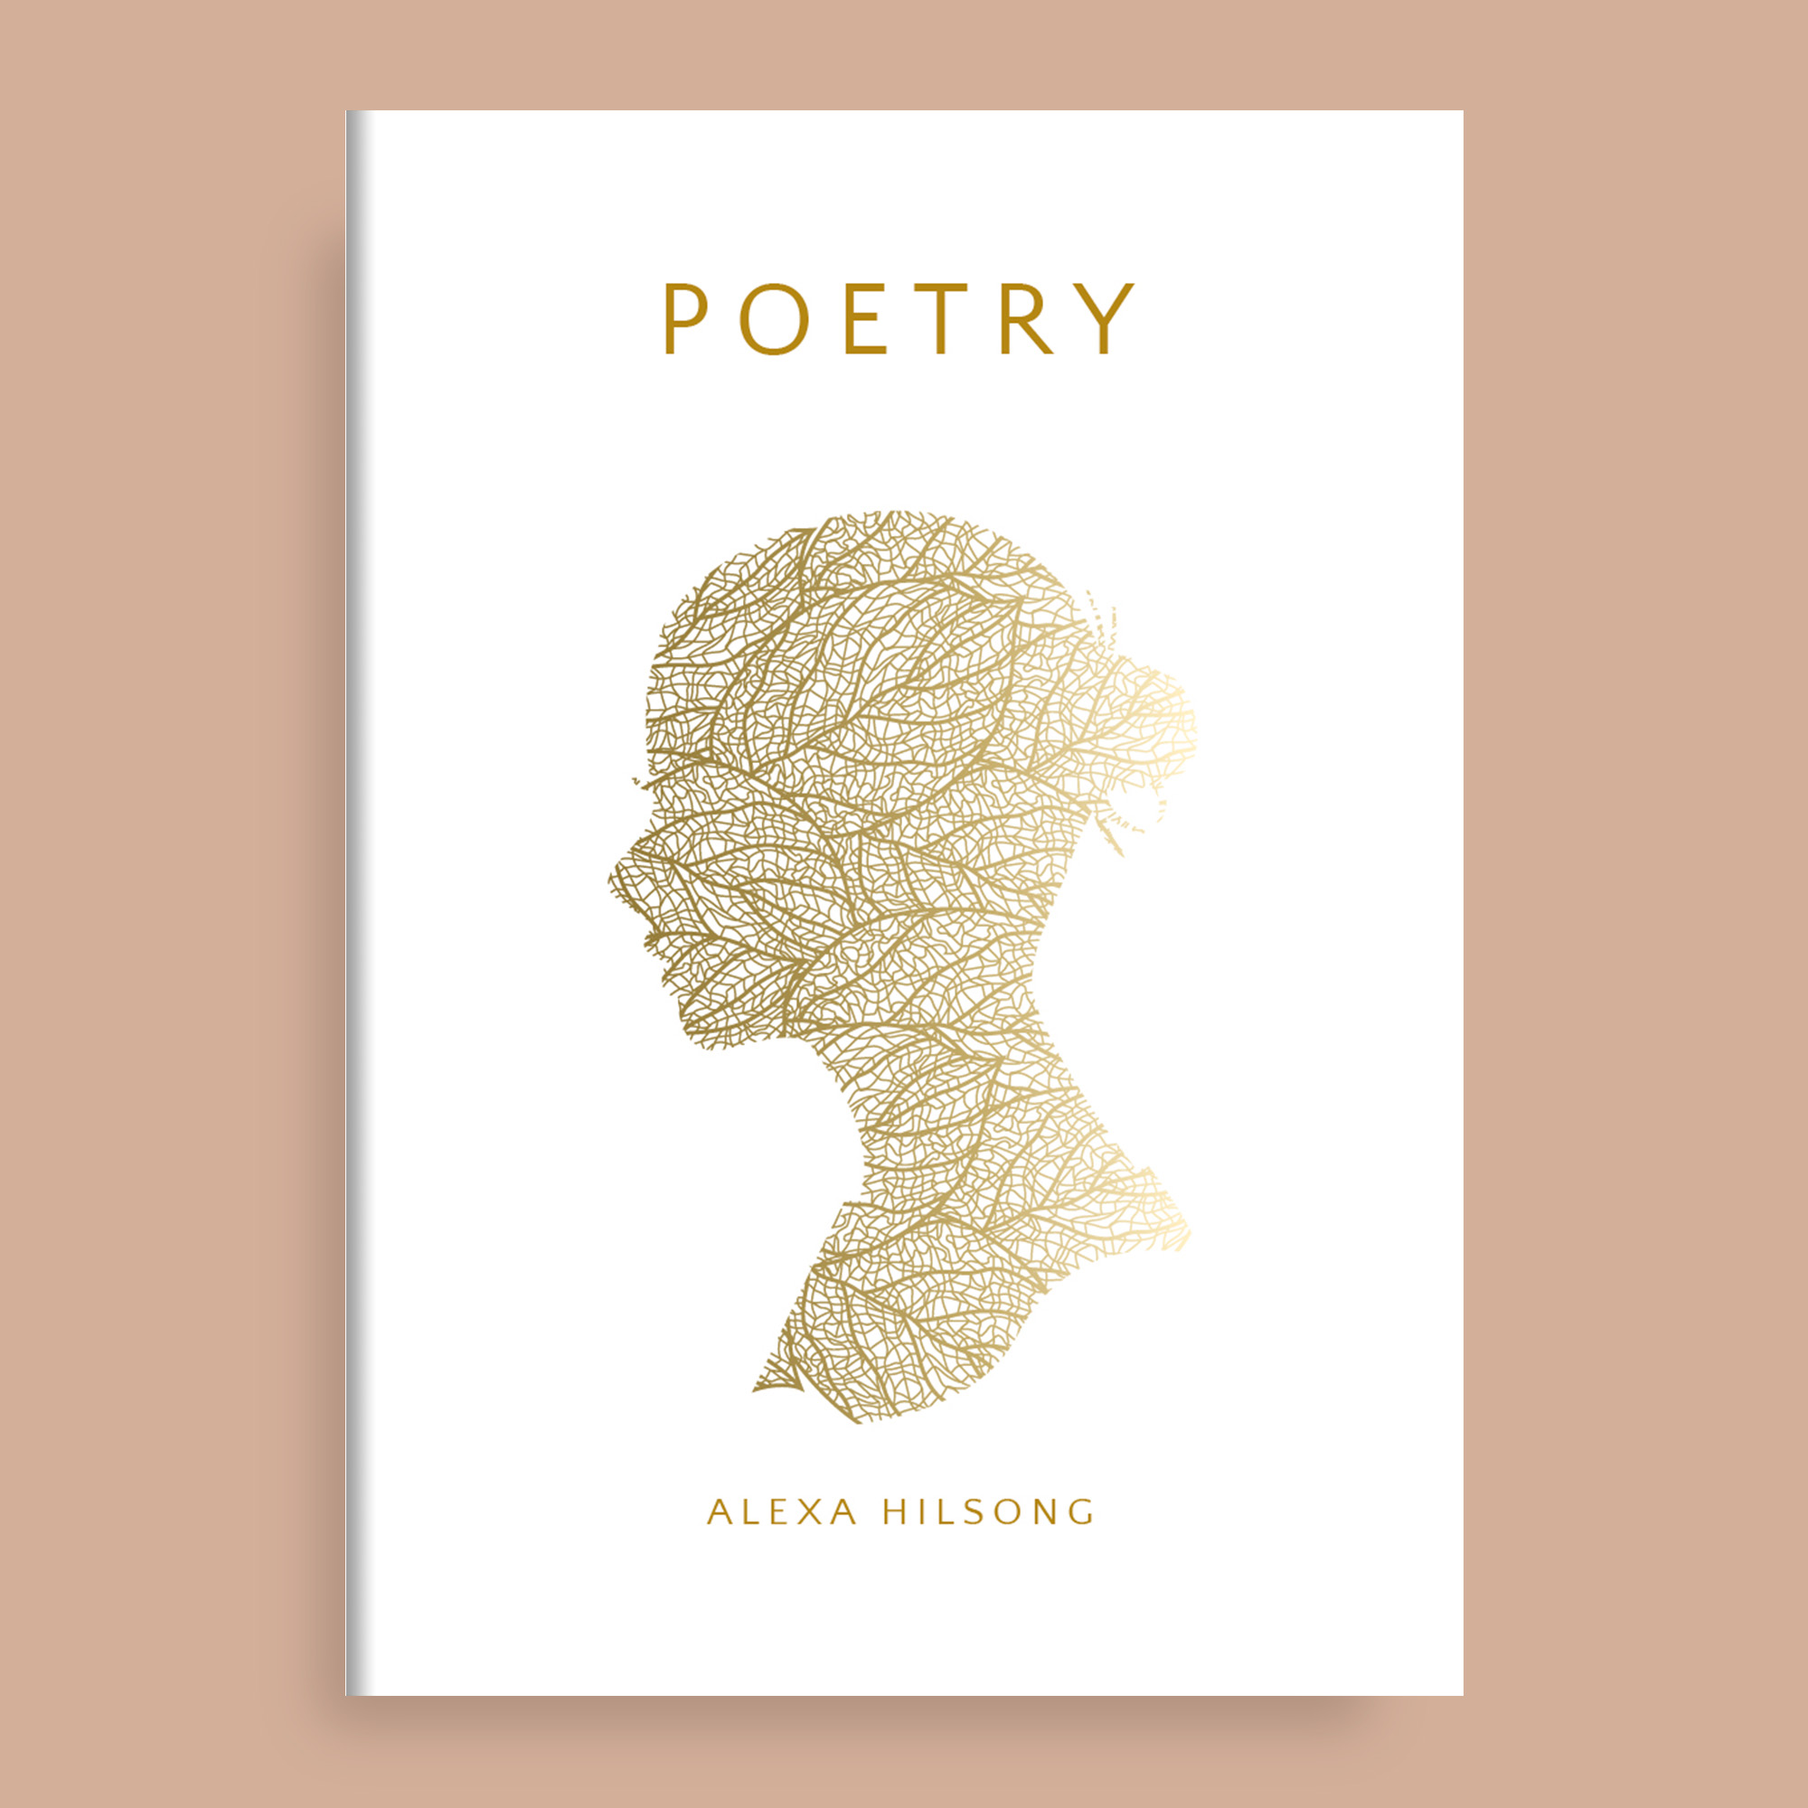
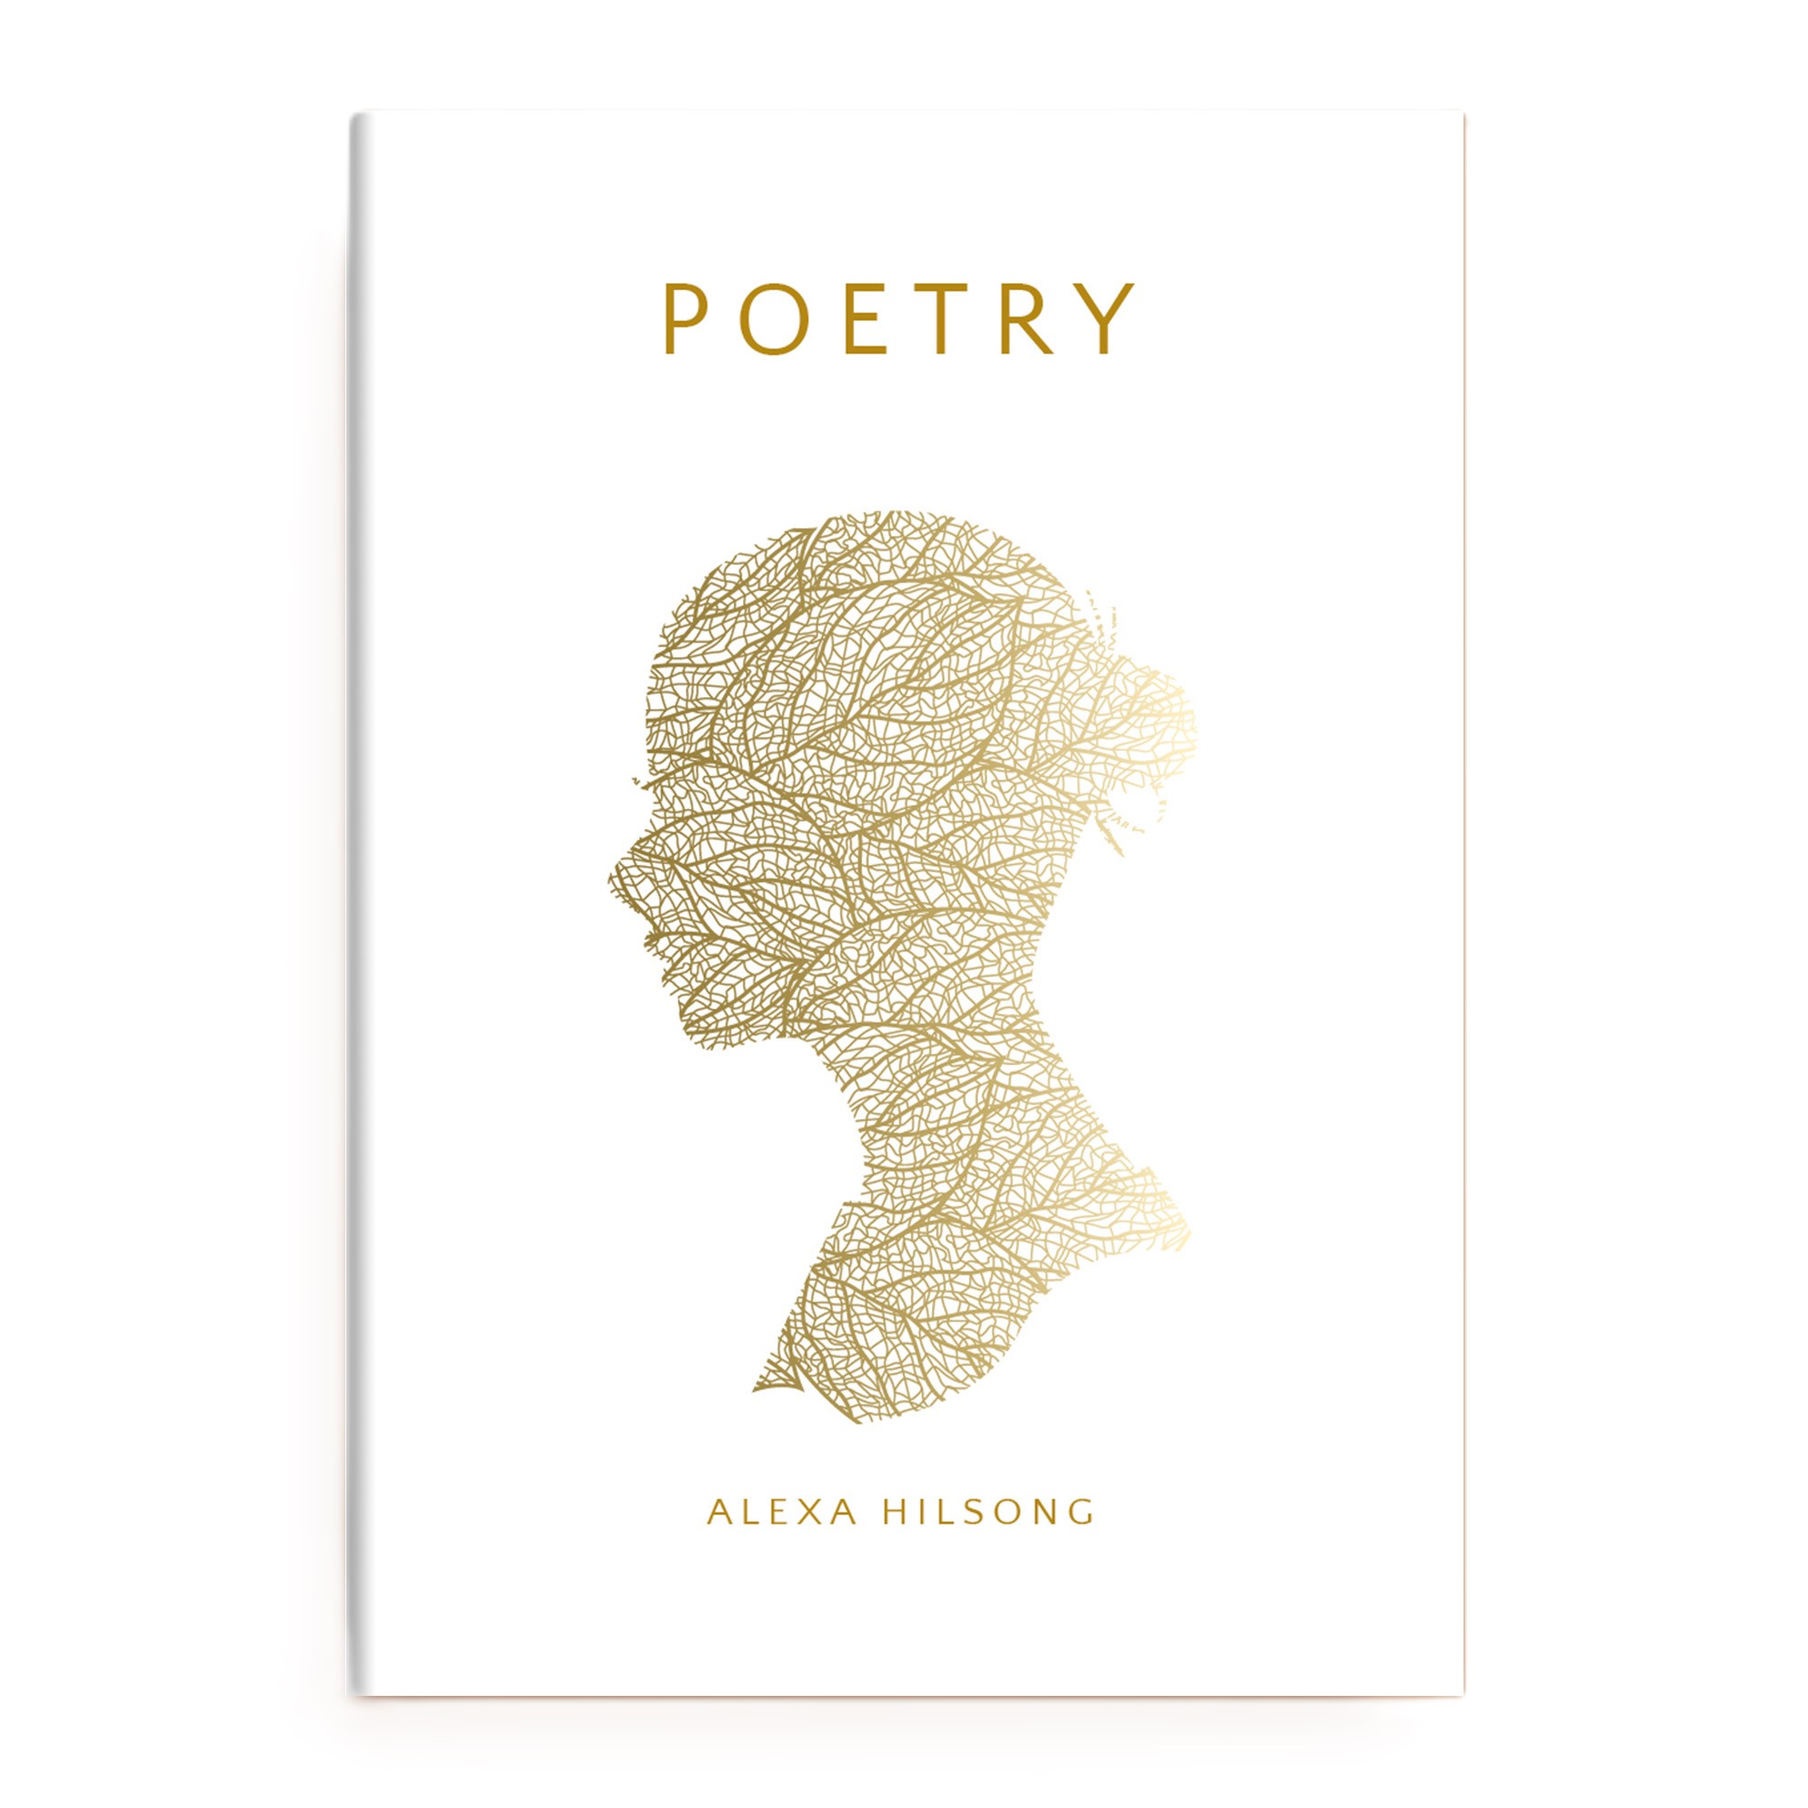
quick access card modification and hero section style changes

diff --git a/frontend/src/components/adminManage/AdminLogin.jsx b/frontend/src/components/adminManage/AdminLogin.jsx
@@ -1,0 +1,187 @@
+import { useState, useRef, useEffect } from "react";
+import axios from "axios";
+import bgimg from "../../images/adminBg.jpg";
+import stimg from "../../images/adminFormLeft.png";
+
+function AdminLogin() {
+  const containerRef = useRef(null);
+  const leftRef = useRef(null);
+  const rightRef = useRef(null);
+
+  useEffect(() => {
+    const container = containerRef.current;
+    const left = leftRef.current;
+    const right = rightRef.current;
+
+    container.style.opacity = "0";
+    left.style.opacity = "0";
+    left.style.transform = "translateX(-50px)";
+    right.style.opacity = "0";
+    right.style.transform = "translateX(50px)";
+
+    requestAnimationFrame(() => {
+      container.style.transition = "opacity 0.5s ease";
+      container.style.opacity = "1";
+
+      setTimeout(() => {
+        left.style.transition = "opacity 0.5s ease, transform 0.5s ease";
+        left.style.opacity = "1";
+        left.style.transform = "translateX(0)";
+        right.style.transition = "opacity 0.5s ease, transform 0.5s ease";
+        right.style.opacity = "1";
+        right.style.transform = "translateX(0)";
+      }, 600);
+    });
+  }, []);
+
+  const [formData, setFormData] = useState({
+    email: "",
+    password: "",
+    expectedRole: "admin",
+  });
+
+  const [loading, setLoading] = useState(false);
+  const [error, setError] = useState(null);
+  const [success, setSuccess] = useState(null);
+
+  //run when any input field changes
+  const handleChange = (e) => {
+    setFormData({
+      ...formData,
+      [e.target.name]: e.target.value, //update the specific field that changed
+    });
+
+    //validation
+    if (!formData.email.trim()) {
+      setError("Email is required");
+      setLoading(false);
+      return;
+    }
+
+    if (!formData.password.trim()) {
+      setError("Password is required");
+      setLoading(false);
+      return;
+    }
+
+    //email validation
+    const emailRegex = /^[^\s@]+@[^\s@]+\.[^\s@]+$/;
+    if (!emailRegex.test(formData.email)) {
+      setError("Please enter a valid email address");
+      setLoading(false);
+      return;
+    }
+  };
+
+  //run when form submits
+  const handleSubmit = async (e) => {
+    e.preventDefault(); //prevent page refresh
+    setLoading(true);
+    setError(null);
+
+    try {
+      const res = await axios.post("/api/head-users/login", formData); //send form data to backend
+
+      setSuccess("Login successful!"); //show success message
+
+      //clear form data
+      setFormData({
+        email: "",
+        password: "",
+      });
+    } catch (err) {
+      setError(err.response?.data?.error || "Login failed, please try again.");
+    } finally {
+      setLoading(false); //loading
+    }
+  };
+
+  return (
+    <div
+      className="w-full h-screen flex items-center justify-center bg-cover px-20"
+      style={{ backgroundImage: `url(${bgimg})` }}
+    >
+      <div
+        ref={containerRef}
+        className="container flex w-2/3  h-150 bg-white/10 rounded-xl overflow-hidden"
+      >
+        {/* left side */}
+        <div
+          ref={leftRef}
+          className="left w-1/2 h-full bg-amber-800 rounded-xl bg-cover flex items-center justify-center"
+          style={{ backgroundImage: `url(${stimg})` }}
+        >
+          <div>
+            <h2 className="col-span-2 w-full font-bold text-purple-500 text-center font-sans text-2xl">
+              Welcome Back!
+            </h2>
+            <div className="flex gap-4 items-center mt-4 mb-2 opacity-40 line-through">
+              <span className="w-4 h-4 rounded-full bg-purple-500 text-white text-sm flex items-center justify-center font-bold">
+                1
+              </span>
+              <p className="text-white">Register the Admin</p>
+            </div>
+            <div className="flex gap-4 items-center mt-4 mb-2">
+              <span className="w-4 h-4 rounded-full bg-purple-500 text-white text-sm flex items-center justify-center font-bold">
+                2
+              </span>
+              <p className="text-white">Login with credentials</p>
+            </div>
+          </div>
+        </div>
+        {/* right side */}
+        <div
+          ref={rightRef}
+          className="right flex flex-col w-1/2 h-full items-center justify-center px-5 text-white/80"
+        >
+          <h2 className="col-span-2 w-full font-bold text-purple-500 text-center font-sans text-2xl">
+            Login
+          </h2>
+
+          <form onSubmit={handleSubmit} className="flex flex-col gap-4 w-full ">
+            <div className=" w-full py-2">
+              {error && <p className="text-red-500 text-center">{error}</p>}
+              {success && (
+                <p className="text-green-500 text-center">{success}</p>
+              )}
+            </div>
+
+            <div>
+              <p>Email Address:</p>
+              <input
+                className="bg-gray-400/40 text-white px-3 py-2 w-full rounded-md focus:outline-none focus:ring-2 focus:ring-purple-500"
+                type="email"
+                name="email"
+                placeholder="Email Address"
+                value={formData.email}
+                onChange={handleChange}
+              />
+            </div>
+
+            <div>
+              <p>Password:</p>
+              <input
+                className="bg-gray-400/40 text-white px-3 py-2 w-full rounded-md focus:outline-none focus:ring-2 focus:ring-purple-500"
+                type="password"
+                name="password"
+                placeholder="Password"
+                value={formData.password}
+                onChange={handleChange}
+              />
+            </div>
+
+            <button
+              className="bg-purple-500 text-white py-2 px-4 col-span-2 w-full mt-6 rounded-md hover:bg-purple-600"
+              type="submit"
+              disabled={loading}
+            >
+              {loading ? "Loading..." : "Login"}
+            </button>
+          </form>
+        </div>
+      </div>
+    </div>
+  );
+}
+
+export default AdminLogin;

diff --git a/frontend/src/pages/homePage.jsx b/frontend/src/pages/homePage.jsx
@@ -11,7 +11,10 @@ function HomePage() {
               alt=""
               className="w-full h-full object-cover group-hover:scale-110 transition-transform duration-500 opacity-40"
             />
-            <span className="absolute bottom-3 left-3 z-10 font-medium text-lg text-blue-700  group-hover:text-blue-100 group-hover:bottom-20 transform-all duration-300 ">
+            <p className="absolute top-3 right-3 bg-purple-700 text-white py-1 px-3 rounded-full">
+              10+ Veries
+            </p>
+            <span className="absolute bottom-3 left-3 z-10 font-medium text-lg text-purple-700  group-hover:text-purple-100 group-hover:bottom-20 transform-all duration-300 ">
               Search Catalogue
             </span>
             <p className="absolute bottom-4 left-3 opacity-0 group-hover:opacity-100 transform-opacity duration-300 bg-white/80 ">
@@ -27,7 +30,10 @@ function HomePage() {
               alt=""
               className="w-full h-full object-cover group-hover:scale-110 transition-transform duration-500 opacity-40"
             />
-            <span className="absolute bottom-3 left-3 z-10 font-medium text-lg text-blue-700  group-hover:text-blue-100 group-hover:bottom-20 transform-all duration-300 ">
+            <p className="absolute top-3 right-3 bg-blue-700 text-white py-1 px-3 rounded-full">
+              2500+ Books
+            </p>
+            <span className="absolute bottom-3 left-3 z-10 font-medium text-lg text-blue-700  group-hover:text-purple-100 group-hover:bottom-20 transform-all duration-300 ">
               Book Collection
             </span>
             <p className="absolute bottom-4 left-3 opacity-0 group-hover:opacity-100 transform-opacity duration-300 bg-white/80 ">
@@ -43,7 +49,10 @@ function HomePage() {
               alt=""
               className="w-full h-full object-cover group-hover:scale-110 transition-transform duration-500 opacity-40"
             />
-            <span className="absolute bottom-3 left-3 z-10 font-medium text-lg text-blue-700  group-hover:text-blue-100 group-hover:bottom-20 transform-all duration-300 ">
+            <p className="absolute top-3 right-3 bg-green-700 text-white py-1 px-3 rounded-full">
+              22 available
+            </p>
+            <span className="absolute bottom-3 left-3 z-10 font-medium text-lg text-green-700  group-hover:text-green-100 group-hover:bottom-20 transform-all duration-300 ">
               Study Room
             </span>
             <p className="absolute bottom-4 left-3 opacity-0 group-hover:opacity-100 transform-opacity duration-300 bg-white/80 ">
@@ -59,7 +68,10 @@ function HomePage() {
               alt=""
               className="w-full h-full object-cover group-hover:scale-110 transition-transform duration-500 opacity-40"
             />
-            <span className="absolute bottom-3 left-3 z-10 font-medium text-lg text-blue-700  group-hover:text-blue-100 group-hover:bottom-20 transform-all duration-300 ">
+            <p className="absolute top-3 right-3 bg-purple-700 text-white py-1 px-3 rounded-full">
+              0 dues
+            </p>
+            <span className="absolute bottom-3 left-3 z-10 font-medium text-lg text-purple-700  group-hover:text-purple-100 group-hover:bottom-20 transform-all duration-300 ">
               Fine Details
             </span>
             <p className="absolute bottom-4 left-3 opacity-0 group-hover:opacity-100 transform-opacity duration-300 bg-white/80 ">

diff --git a/frontend/src/components/navbar.jsx b/frontend/src/components/navbar.jsx
@@ -53,7 +53,7 @@ export function Navigation() {
               type="button"
               value="Login"
               name="login"
-              className="px-3 py-1 rounded bg-blue-800 hover:bg-blue-900 transition-colors duration-300 hidden sm:block cursor-pointer"
+              className="px-3 py-1 rounded bg-purple-800 hover:bg-purple-900 transition-colors duration-300 hidden sm:block cursor-pointer"
             />
             <DarkMode />
             <button
@@ -79,14 +79,14 @@ export function Navigation() {
                 type="button"
                 value="Login"
                 name="login"
-                className="px-3 rounded bg-blue-800 text-white hover:bg-blue-900 transition-colors duration-300 cursor-pointer"
+                className="px-3 rounded bg-purple-800 text-white hover:bg-purple-900 transition-colors duration-300 cursor-pointer"
               />
             </div>
             <ul>
               <li>
                 <a
                   href="./modal.html"
-                  className="block py-2 text-blue-500 hover:text-black transition-colors duration-300"
+                  className="block py-2 text-purple-500 hover:text-black transition-colors duration-300"
                 >
                   All Books
                 </a>
@@ -94,7 +94,7 @@ export function Navigation() {
               <li>
                 <a
                   href="#"
-                  className="block py-2 text-blue-500 hover:text-black transition-colors duration-300"
+                  className="block py-2 text-purple-500 hover:text-black transition-colors duration-300"
                 >
                   New Arrivals
                 </a>
@@ -102,7 +102,7 @@ export function Navigation() {
               <li>
                 <a
                   href="#"
-                  className="block py-2 text-blue-500 hover:text-black transition-colors duration-300"
+                  className="block py-2 text-purple-500 hover:text-black transition-colors duration-300"
                 >
                   About
                 </a>
@@ -111,7 +111,7 @@ export function Navigation() {
           </div>
         )}
 
-        <div className="w-full bg-blue-100">
+        <div className="w-full bg-purple-100">
           <h2 className="font-bold font-sans text-center p-1 pb-2">
             Welcome Guest!
           </h2>

diff --git a/frontend/src/components/heroSection.jsx b/frontend/src/components/heroSection.jsx
@@ -1,7 +1,7 @@
 import hero from "../images/bg-hero.jpg";
-import book1 from "../images/book1.jpg";
-import book2 from "../images/book2.jpg";
-import book3 from "../images/book3.jpg";
+import book1 from "../images/booknobg.png";
+import book3 from "../images/booknobg.png";
+import book2 from "../images/booknobg.png";
 import { useState, useEffect } from "react";
 import { motion } from "framer-motion";
 
@@ -43,11 +43,11 @@ function HeroSec() {
         />
         <div className="left w-full mx-2 h-140 absolute bottom-5 left-0 bg-gradient-to-r from-black/80 to-black/0 p-4">
           <div className="book w-2/3 h-full flex gap-10 ">
-            <div className="img w-fit h-full overflow-hidden shadow-md rounded-bl-4xl rounded-tr-4xl">
+            <div className="img w-1/2 h-full overflow-hidden shadow-md rounded-bl-4xl rounded-tr-4xl bg-white/10">
               <img
                 src={slides[current].imgUrl}
                 alt="book-1"
-                className="w-full h-full object-fill overflow-hidden"
+                className="w-full h-full object-cover overflow-hidden hover:scale-110 transition-transform duration-500"
               />
             </div>
             <div className="text w-1/2 h-full overflow-hidden flex flex-col items-center justify-center p-4 ">
@@ -58,7 +58,7 @@ function HeroSec() {
                 type="search"
                 placeholder=" Seek Knowledge.."
                 name="search"
-                className="w-full h-10 px-4 rounded-xl bg-white mt-5"
+                className="w-full h-10 px-4 rounded-xl bg-white mt-5 focus-within:outline-none hover:focus-within:ring-2 hover:focus-within:ring-purple-500 transition-all duration-300"
               />
             </div>
           </div>

diff --git a/frontend/src/App.jsx b/frontend/src/App.jsx
@@ -17,12 +17,14 @@ import LibrarianLogin from "./components/librarianManage/LibrarianLogin.jsx";
 
 //admin management
 import AddAdminForm from "./components/adminManage/AddAdmin.jsx";
+import AdminLogin from "./components/adminManage/AdminLogin.jsx";
 
 function App() {
   return (
     <div>
-      <AddLibrarianForm />
-      <LibrarianLogin />
+      <Navigation />
+      <HeroSec />
+      <HomePage />
     </div>
   );
 }
